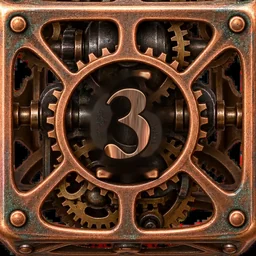
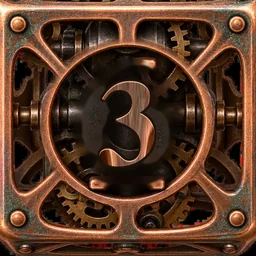
다이스 히어로즈 v0.15.2: 오픈하츠 주사위 숫자와 둘레 원을 1.22배로
- tools/make_dice_textures.py: 가운데 테·톱니 원판을 OH_SCALE 배 키워 얹고 숫자·어두운 원판·6 밑줄도 같은 배율로
- 이미지가 뜨기 전 캔버스 그림의 숫자도 같은 비율로 키움

Claude-Session: https://claude.ai/code/session_014gChBYzVF9cfUwsBghVSK5

Changed region(s): [[0.125, 0.125, 0.8438, 0.8438], [0.375, 0.3125, 0.4062, 0.3438]]

diff --git a/dice-heroes/skins.js b/dice-heroes/skins.js
@@ -153,13 +153,13 @@ export function drawDieFace(c, v, id = 'classic', mode = '') {
       g.strokeStyle = 'rgba(0,0,0,.55)'; g.lineWidth = 4; roundRect(g, 30, 30, W - 60, W - 60, 22); g.stroke();
       g.strokeStyle = 'rgba(255,230,200,.6)'; g.lineWidth = 2; g.strokeRect(6, 6, W - 12, W - 12);
       // 숫자: 구리 테두리 두른 굵은 숫자
-      g.font = 'bold 150px Georgia, "Times New Roman", serif';
+      g.font = 'bold 183px Georgia, "Times New Roman", serif';
       g.textAlign = 'center'; g.textBaseline = 'middle';
       g.lineJoin = 'round';
       g.lineWidth = 22; g.strokeStyle = cu; g.strokeText(String(v), W / 2, W / 2 + 8);
       g.fillStyle = dark; g.fillText(String(v), W / 2, W / 2 + 8);
       g.lineWidth = 3; g.strokeStyle = 'rgba(255,220,180,.7)'; g.strokeText(String(v), W / 2, W / 2 + 8);
-      if (v === 6) { g.fillStyle = cu; g.fillRect(W / 2 - 34, W / 2 + 74, 68, 10); }   // 6 밑줄
+      if (v === 6) { g.fillStyle = cu; g.fillRect(W / 2 - 41, W / 2 + 88, 82, 11); }   // 6 밑줄
       break;
     }
     case 'gold': {

diff --git a/dice-heroes/config.js b/dice-heroes/config.js
@@ -3,6 +3,6 @@ export const GAME = {
   name: '다이스 히어로즈',
   en: 'DICE HEROES',
   studio: 'HAHAHOHO COMPANY',
-  version: '0.15.1',
+  version: '0.15.2',
   year: 2026,
 };

diff --git a/dice-heroes/tools/make_dice_textures.py b/dice-heroes/tools/make_dice_textures.py
@@ -134,6 +134,15 @@ def black():
 
 # ── 오픈하츠: 6 면(정면) 렌더를 통째로 쓰고, 가운데 숫자만 지운 뒤 같은 구리 질감으로 새 숫자를 새긴다
 FONT = '/usr/share/fonts/truetype/freefont/FreeSerifBold.ttf'
+OH_SCALE = 1.22   # 오픈하츠: 가운데 원(테·톱니)과 숫자를 렌더보다 키우는 배율
+
+
+def enlarge_disc(img, cx, cy, r, s, soft=28):
+    # (cx, cy) 중심 반지름 r 원판을 s 배 키워 제자리에 얹는다 (가장자리는 부드럽게)
+    h, w = img.shape[:2]
+    big = cv2.warpAffine(img, np.float32([[s, 0, cx - s * cx], [0, s, cy - s * cy]]), (w, h), flags=cv2.INTER_CUBIC)
+    m = feather_circle(h, w, cx, cy, r * s, soft)
+    return (big * m + img * (1 - m)).astype(np.uint8)
 
 
 def openheart():
@@ -149,16 +158,17 @@ def openheart():
     mask = cv2.bitwise_and(copper, circ)
     mask = cv2.dilate(mask, np.ones((9, 9), np.uint8), iterations=2)
     blank = cv2.inpaint(face, mask, 9, cv2.INPAINT_TELEA)
-    blank = cv2.GaussianBlur(blank, (0, 0), 1.2) * 0 + blank   # (그대로)
+    blank = enlarge_disc(blank, cx, cy, 285, OH_SCALE)   # 테·톱니 원을 키운다
     # 새 숫자: 구리 질감(테두리 막대에서 떠 온 결) + 어두운 음각 테두리 + 밝은 윗모서리
     tex = cv2.resize(face[40:110, 150:870], (1024, 1024))   # 윗 가로 테
     tex = cv2.cvtColor(tex, cv2.COLOR_BGR2RGB)
-    font = ImageFont.truetype(FONT, 400)
+    font = ImageFont.truetype(FONT, int(400 * OH_SCALE))
     for v in range(1, 7):
         base = Image.fromarray(cv2.cvtColor(blank, cv2.COLOR_BGR2RGB))
         # 숫자 아래 어두운 원판 (기계장치 앞에 숫자가 또렷하게)
         shade = Image.new('L', (1024, 1024), 0)
-        ImageDraw.Draw(shade).ellipse((cx - 165, cy - 200, cx + 165, cy + 200), fill=120)
+        k = OH_SCALE
+        ImageDraw.Draw(shade).ellipse((cx - 165 * k, cy - 200 * k, cx + 165 * k, cy + 200 * k), fill=120)
         shade = shade.filter(ImageFilter.GaussianBlur(40))
         base = Image.composite(Image.new('RGB', (1024, 1024), (22, 16, 12)), base, shade)
         m_in = Image.new('L', (1024, 1024), 0)
@@ -169,8 +179,8 @@ def openheart():
         ty = cy - (bb[1] + bb[3]) / 2 - 10
         d.text((tx, ty), text, font=font, fill=255)
         if v == 6:
-            d.rectangle((cx - 95, cy + 185, cx + 95, cy + 205), fill=255)   # 6 밑줄 (렌더와 같게)
-        m_out = m_in.filter(ImageFilter.MaxFilter(13))
+            d.rectangle((cx - 95 * k, cy + 185 * k, cx + 95 * k, cy + 205 * k), fill=255)   # 6 밑줄 (렌더와 같게)
+        m_out = m_in.filter(ImageFilter.MaxFilter(15))
         base.paste(Image.new('RGB', (1024, 1024), (30, 18, 10)), (0, 0), m_out)
         copper_img = Image.fromarray(tex)
         base.paste(copper_img, (0, 0), m_in)
